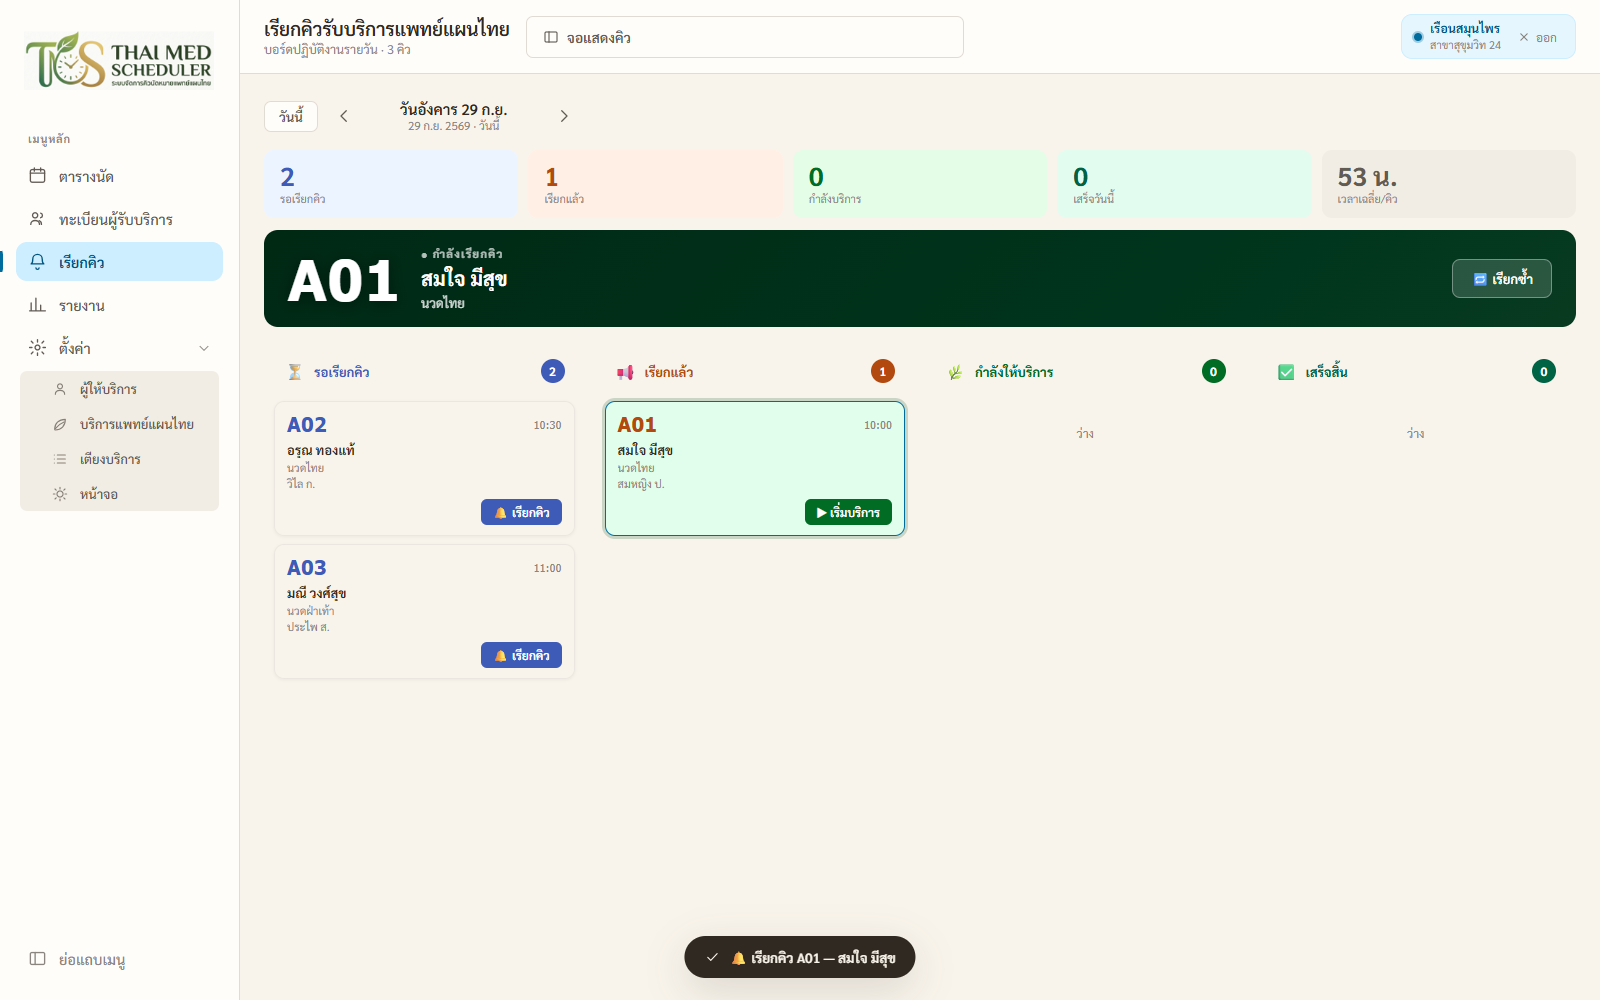
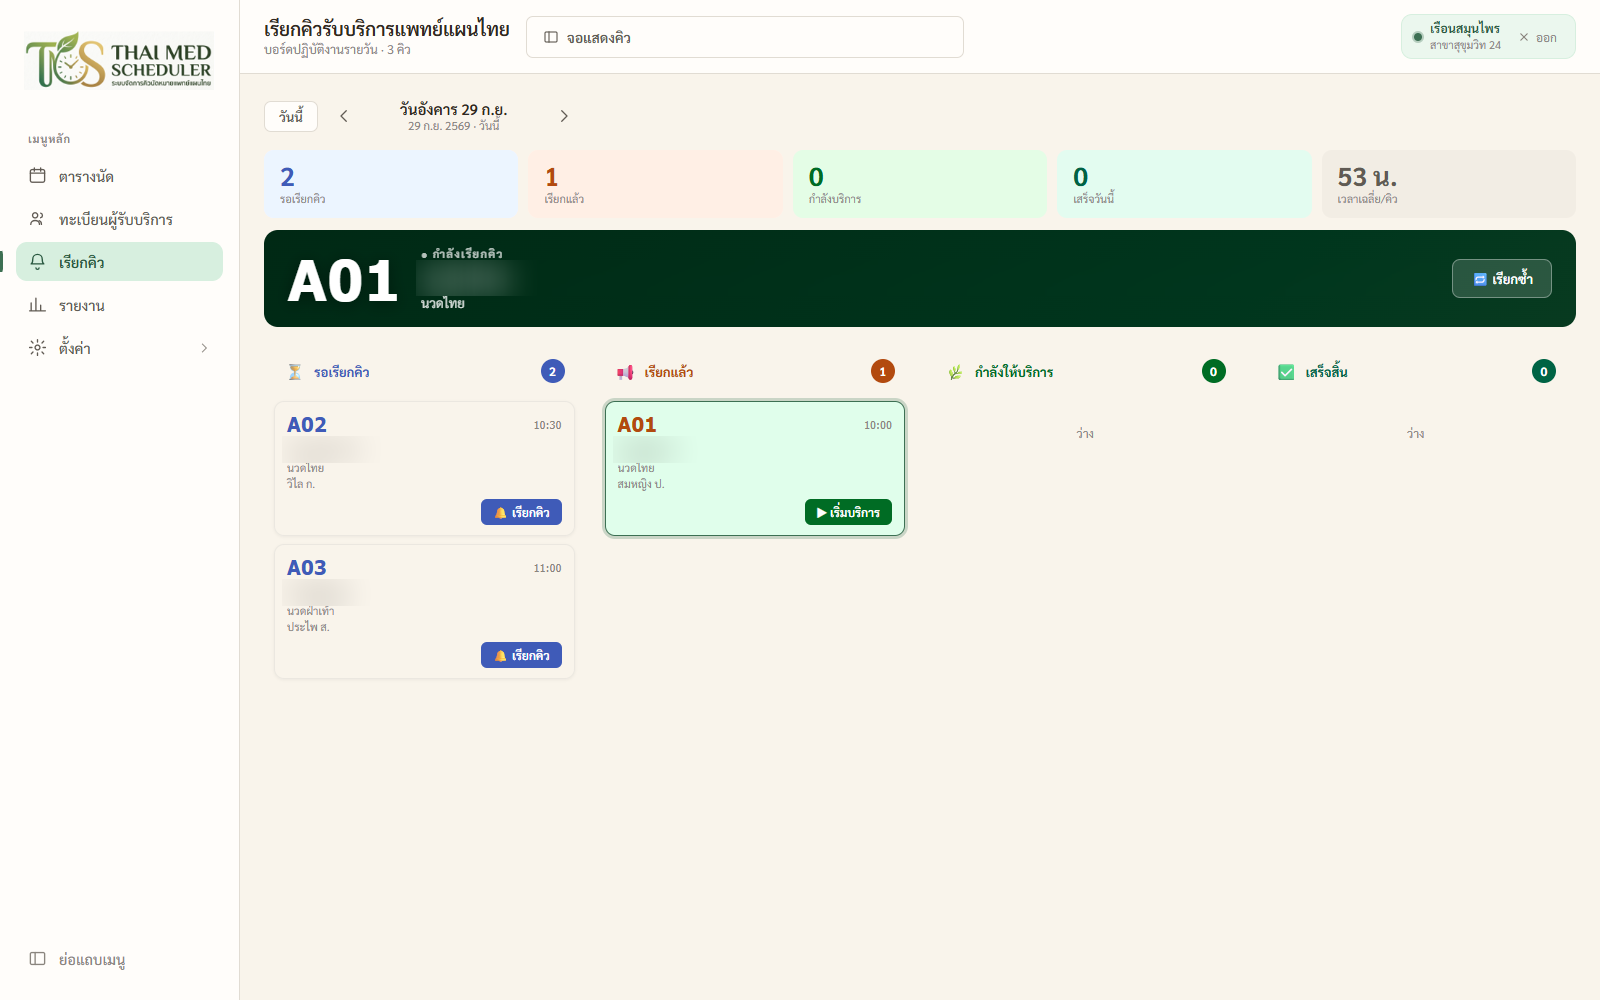
Blur customer PII in manual screenshots for PDPA compliance
Blurs customer names, HN numbers, and phone numbers in every manual
screenshot that shows them (booking form, ticket, board, appointment
detail, queue, and customer registry), using real pixel-level blur at
the exact on-screen coordinates rather than a static overlay. Therapist
names are left visible since they're staff/business directory data.

diff --git a/manual.html b/manual.html
@@ -572,7 +572,7 @@
       <p>ไอคอนกระดิ่งมุมขวาบนของหน้าตารางนัด จะมีตัวเลขสีแดงแจ้งจำนวนการแจ้งเตือนที่ยังไม่ได้อ่าน คลิกเพื่อเปิดดูรายการ
         แบ่งเป็นแท็บ: ทั้งหมด, คิวจะถึง (ภายใน 60 นาที), วันนัด (พรุ่งนี้), และเปลี่ยนแปลง (นัดที่ถูกยกเลิก/ย้ายเวลา)</p>
       <figure class="shot"><img src="shots/25-notifications.png" alt="ศูนย์การแจ้งเตือน"></figure>
-      <div class="cap"><span class="n">ภาพที่ 26</span> แผงการแจ้งเตือน — คิวด่วนจะมีแถบสีแดงและปุ่มลัดไปหน้าเรียกคิว</div>
+      <div class="cap"><span class="n">ภาพที่ 26</span> แผงการแจ้งเตือน — รายการคิวที่ใกล้ถึงเวลาจะมีปุ่มลัดไปหน้าเรียกคิว</div>
       <p>การแจ้งเตือนคิวด่วน (เหลือเวลาไม่ถึง 15 นาที) จะมีแถบสีแดงเน้นพิเศษ พร้อมปุ่ม
         <span class="kbd-btn">ไปหน้าเรียกคิว →</span> ให้กดลัดไปจัดการได้ทันที และกด "อ่านทั้งหมด" เพื่อล้างตัวเลขแจ้งเตือนได้ทุกเมื่อ</p>
     </section>
@@ -610,7 +610,8 @@
     </section>
 
     <footer>
-      ThaiMed Scheduler — คู่มือการใช้งานฉบับนี้จัดทำจากหน้าจอจริงของระบบ (ข้อมูลลูกค้า/ผู้ให้บริการในภาพประกอบเป็นข้อมูลตัวอย่างเพื่อการสาธิตเท่านั้น)
+      ThaiMed Scheduler — คู่มือการใช้งานฉบับนี้จัดทำจากหน้าจอจริงของระบบ โดยใช้ข้อมูลตัวอย่างเพื่อการสาธิตเท่านั้น
+      และเบลอชื่อ-นามสกุล เลข HN และเบอร์โทรศัพท์ของลูกค้าในทุกภาพประกอบ เพื่อป้องกันข้อมูลส่วนบุคคลตาม พ.ร.บ. คุ้มครองข้อมูลส่วนบุคคล (PDPA)
     </footer>
   </main>
 </div>
